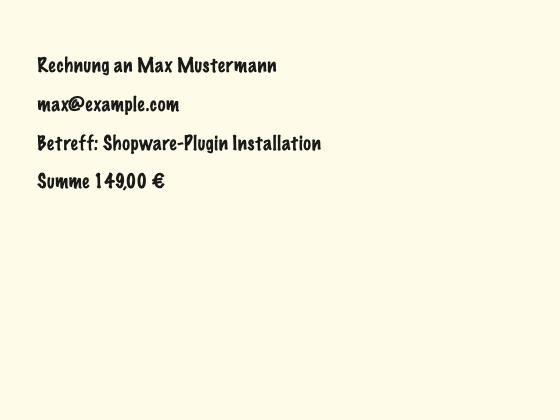
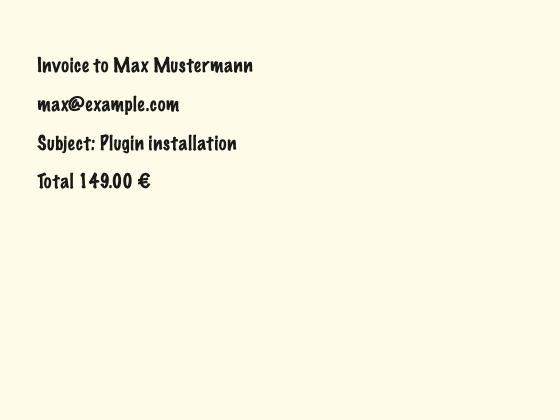
Demo fully in English: commands, app replies and the photo

Changed region(s): [[0.0607, 0.3095, 0.5768, 0.3714], [0.0607, 0.1238, 0.5161, 0.1857], [0.0607, 0.4024, 0.3036, 0.4643]]

diff --git a/public/demo.js b/public/demo.js
@@ -16,7 +16,7 @@
   async function narrate(text) {
     cap.textContent = text;
     await quiet();
-    await new Promise((res) => { const u = new SpeechSynthesisUtterance(text); u.voice = voice(); u.lang = "en-US"; u.rate = 1; u.onend = res; u.onerror = res; speechSynthesis.speak(u); });
+    await new Promise((res) => { const u = new SpeechSynthesisUtterance(text); u.voice = voice(); u.lang = "en-US"; u.rate = 0.95; u.onend = res; u.onerror = res; speechSynthesis.speak(u); });
     await sleep(300);
   }
   async function type(text) {
@@ -36,20 +36,20 @@
     document.documentElement.style.setProperty("--scale", 1.1);
     await narrate("Sending an invoice means a dozen small fields and buttons. With a tremor, or without sight, that is a wall. This is PayPal for everyone who can't easily type or see.");
     await narrate("Speech is recognised offline on the Mac. For this recording, the commands are typed in. One sentence:");
-    await type("Schick Max eine PayPal-Rechnung über 50 Euro für das Shopware-Plugin");
+    await type("Send Max a PayPal invoice for 50 euros for the Shopware plugin");
     await narrate("It reads everything back and waits for my yes.");
-    await type("Ja");
+    await type("Yes");
     await narrate("A real invoice in the PayPal Sandbox, created with the Invoicing API. The payer link is on the clipboard.");
     await narrate("Now a voice search in an accessible AG Grid.");
-    await type("Zeig mir alle offenen Rechnungen über 100 Euro aus diesem Monat");
+    await type("Show me all open invoices over 100 euros from this month");
     show("grid-h");
     await sleep(800);
-    await type("Nächste Zeile");
+    await type("Next row");
     await narrate("The sentence became a real AG Grid filter over all PayPal invoices, links and transactions, and the result is read aloud.");
-    await type("Was wird diese Woche fällig?");
+    await type("What is due this week?");
     show("grid-h");
     await narrate("Due dates are read aloud, and shown in a Bryntum calendar.");
-    await type("Prüfe das Protokoll");
+    await type("Verify the audit log");
     show("grid-h");
     await narrate("Every step is notarised: what was heard, what was read back, how it was confirmed, and what PayPal answered. Each line is chained with SHA-256, so any change is detected.");
     await narrate("A photo of a note works too. Text recognition runs on the Mac.");
@@ -63,7 +63,7 @@
       window.__jabbooDemoPhoto?.(r);
       await sleep(900); await quiet();
       pic.remove();
-      await type("Abbrechen");
+      await type("Cancel");
     } catch {}
     await narrate("And AI agents use the same core through MCP.");
     term.style.display = "block"; term.textContent = "";
